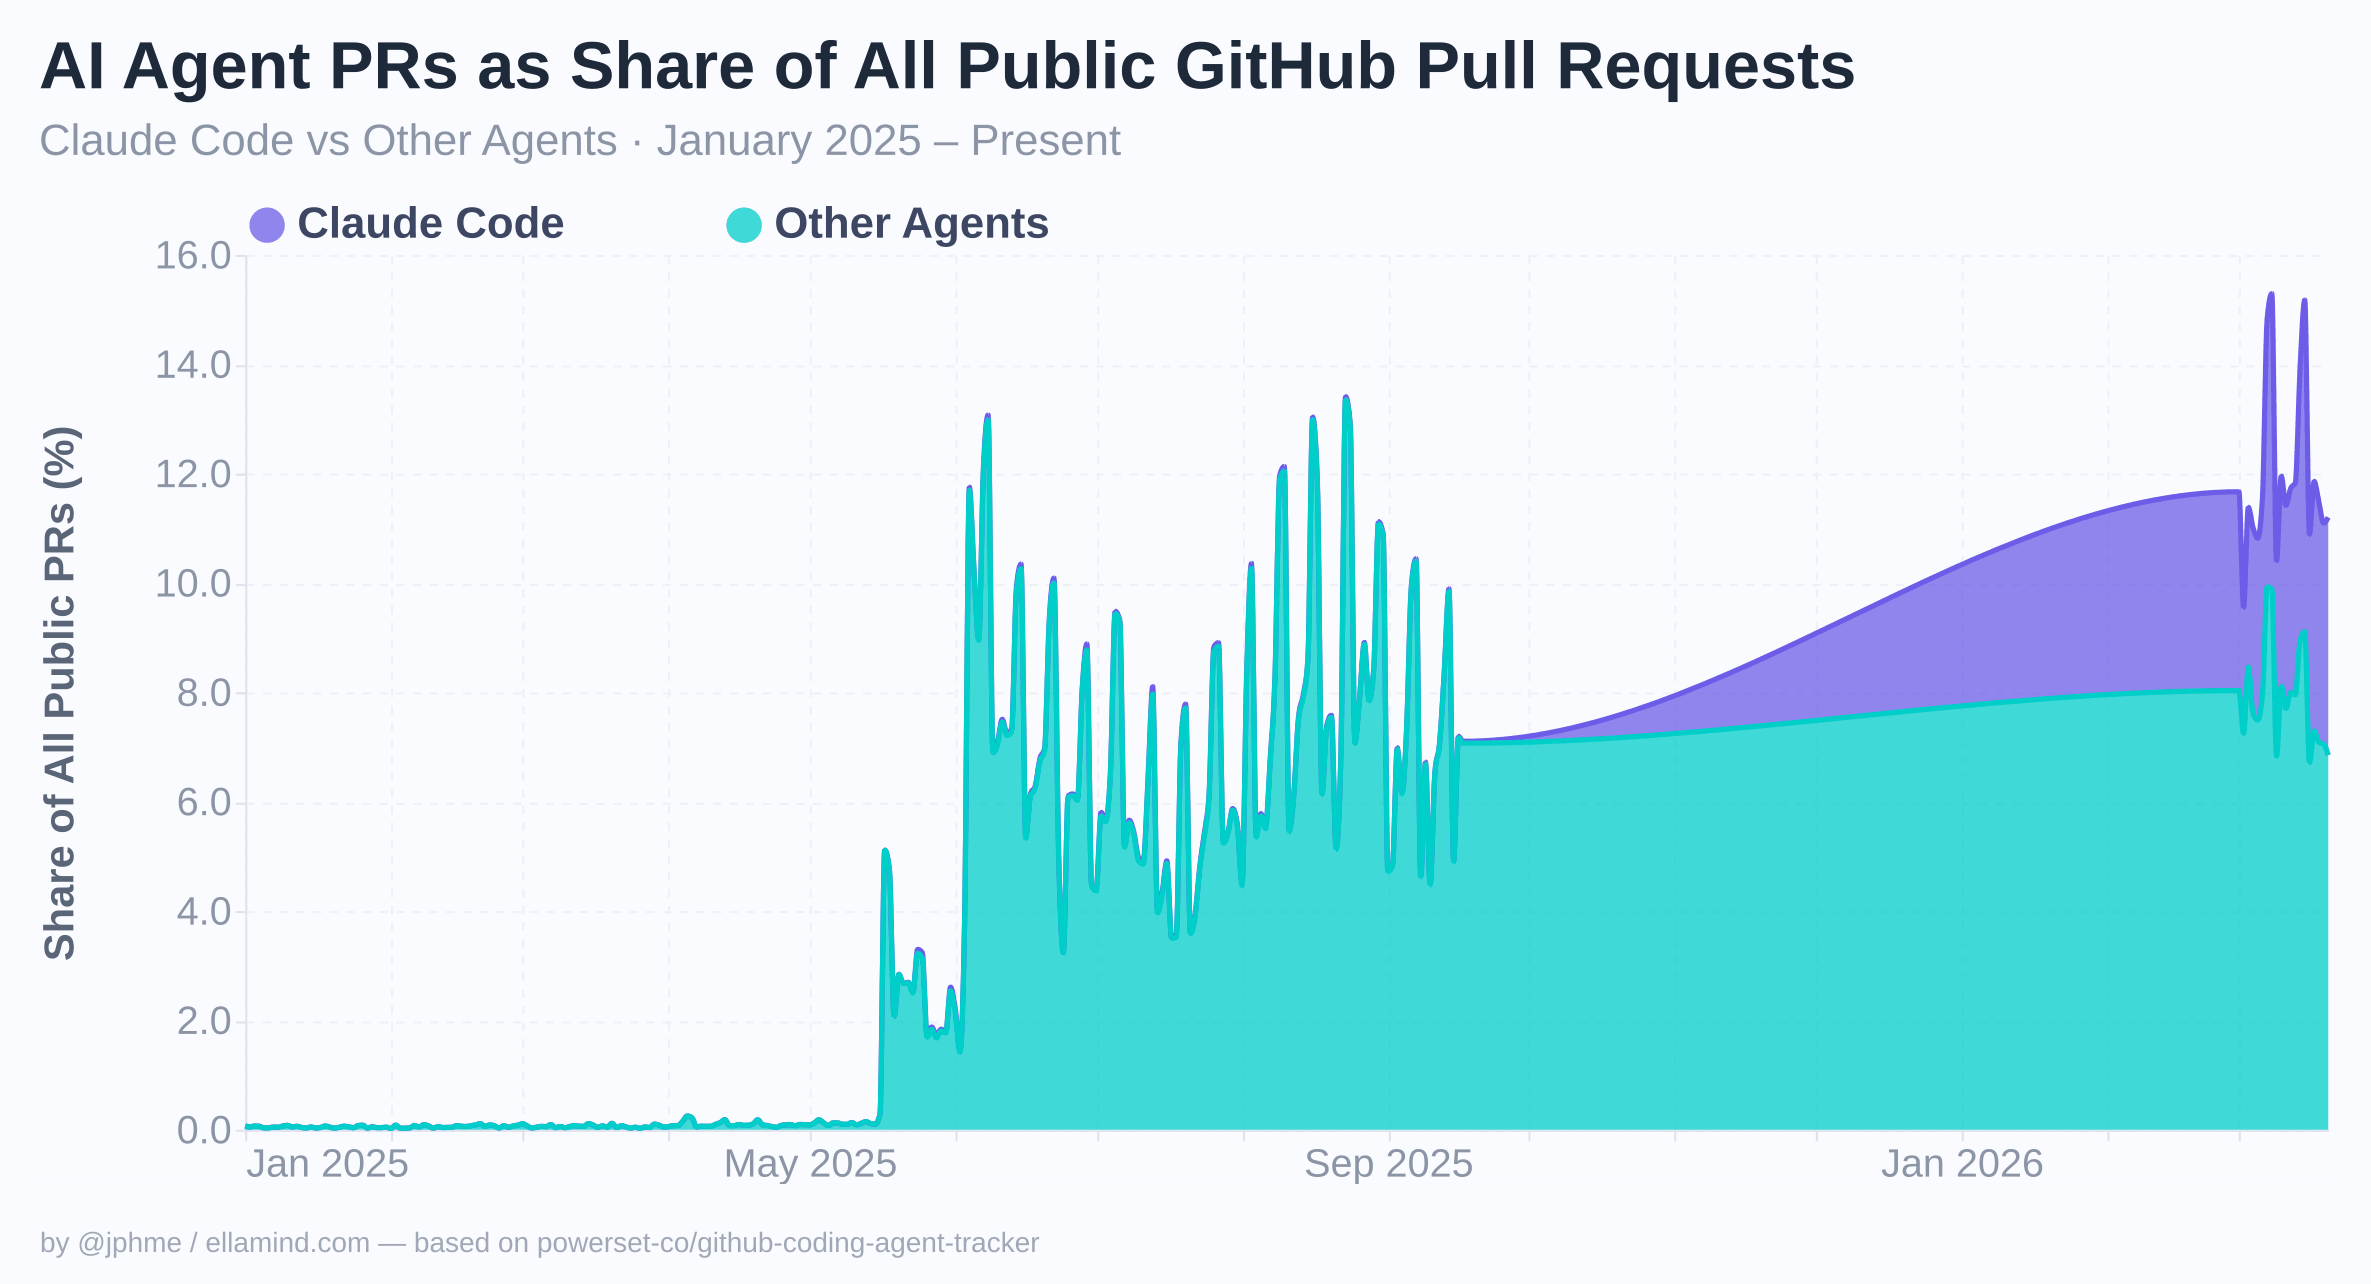
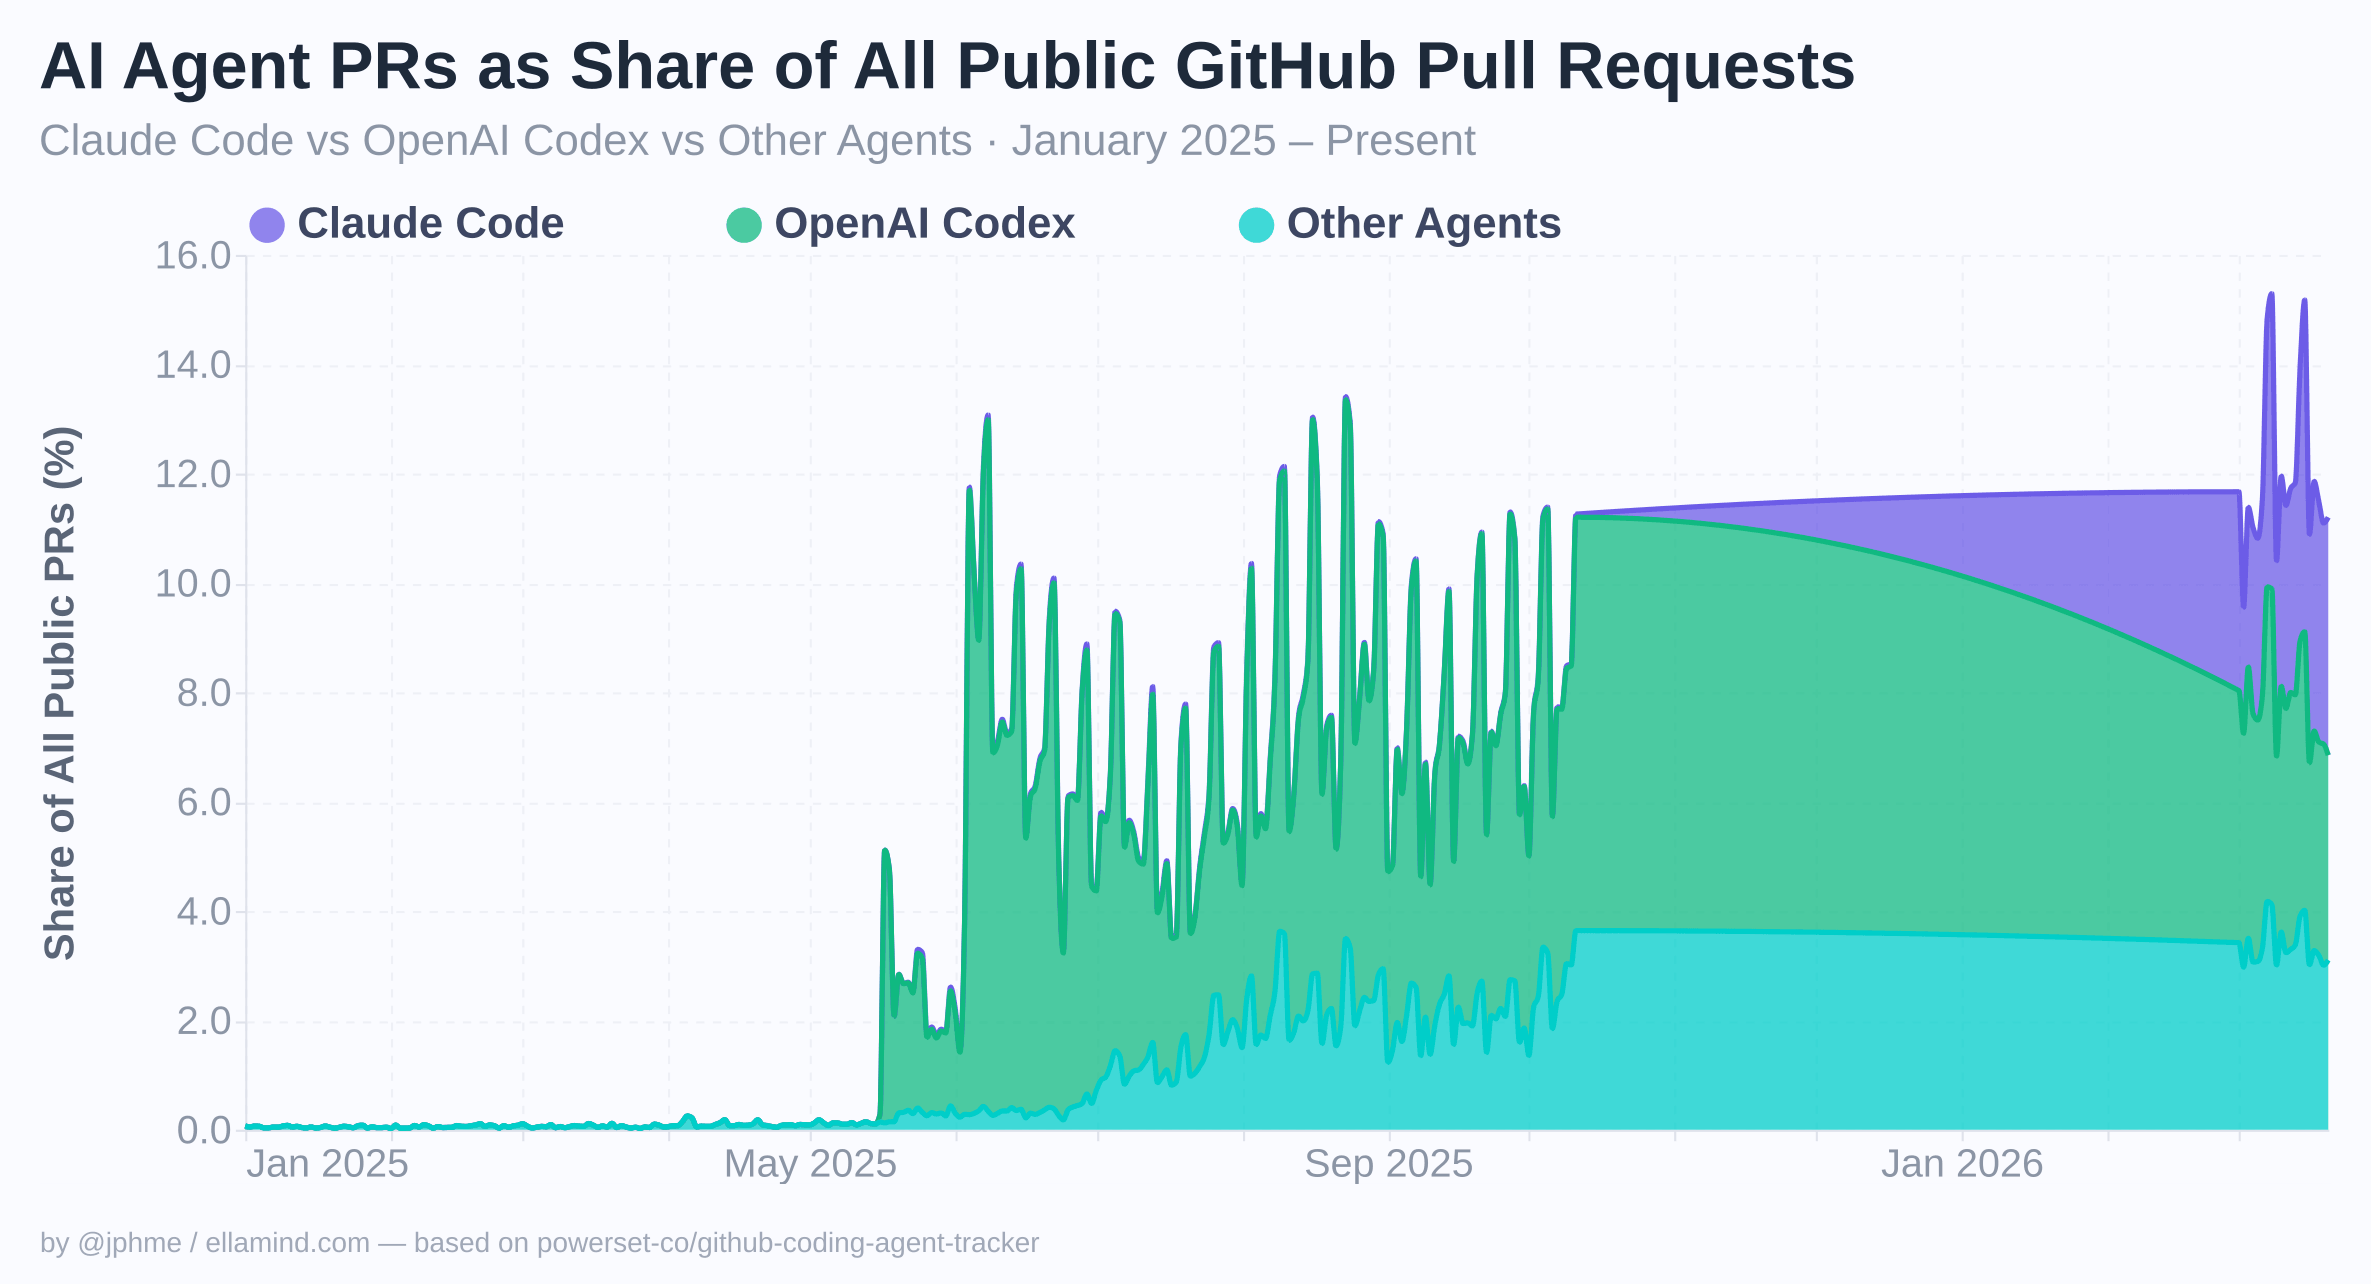
Add PR share chart with Claude/Codex/Other categories and GitHub Action
- Update pr-share-chart.ts to show 3 categories: Claude Code, OpenAI Codex, Other Agents
- Add .github/workflows/update-prs.yml for daily PR data collection
- Update CLAUDE.md with PR pipeline documentation
- Include remaining backfilled PR data (through Oct 11)

https://claude.ai/code/session_014wvLU8jndavNQ5BthFgYj1

diff --git a/src/pr-share-chart.ts b/src/pr-share-chart.ts
@@ -8,7 +8,8 @@ import * as vegaLite from "vega-lite";
 import sharp from "sharp";
 
 const CLAUDE_KEY = "claude";
-const OTHER_AGENT_KEYS = ["codex", "copilot", "cursor", "devin", "jules", "amazonq", "opencode"];
+const CODEX_KEY = "codex";
+const OTHER_AGENT_KEYS = ["copilot", "cursor", "devin", "jules", "amazonq", "opencode"];
 
 interface StackedPoint {
   date: string;
@@ -35,9 +36,11 @@ function loadData(): StackedPoint[] {
     if (!total || total === 0) continue;
 
     const claudeCount = rows.get(CLAUDE_KEY) ?? 0;
+    const codexCount = rows.get(CODEX_KEY) ?? 0;
     const otherSum = OTHER_AGENT_KEYS.reduce((sum, k) => sum + (rows.get(k) ?? 0), 0);
 
     points.push({ date, category: "Claude Code", percentage: (claudeCount / total) * 100 });
+    points.push({ date, category: "OpenAI Codex", percentage: (codexCount / total) * 100 });
     points.push({
       date,
       category: "Other Agents",
@@ -51,8 +54,8 @@ function loadData(): StackedPoint[] {
 
 function buildSpec(data: StackedPoint[]): vegaLite.TopLevelSpec {
   const colorScale = {
-    domain: ["Claude Code", "Other Agents"],
-    range: ["#6C5CE7", "#00CEC9"],
+    domain: ["Claude Code", "OpenAI Codex", "Other Agents"],
+    range: ["#6C5CE7", "#10B981", "#00CEC9"],
   };
 
   return {
@@ -63,7 +66,7 @@ function buildSpec(data: StackedPoint[]): vegaLite.TopLevelSpec {
     background: "#FAFBFF",
     title: {
       text: "AI Agent PRs as Share of All Public GitHub Pull Requests",
-      subtitle: "Claude Code vs Other Agents  ·  January 2025 – Present",
+      subtitle: "Claude Code vs OpenAI Codex vs Other Agents  ·  January 2025 – Present",
       font: "Helvetica Neue, Arial, sans-serif",
       fontSize: 32,
       fontWeight: 700,

diff --git a/CLAUDE.md b/CLAUDE.md
@@ -21,6 +21,15 @@ bun run src/chart.ts
 # Generate commit-share-chart.png (Claude vs Others stacked area chart)
 bun run src/commit-share-chart.ts
 
+# Fetch PR data for a single day
+GITHUB_TOKEN=ghp_... bun run src/fetch-prs.ts 2026-03-20
+
+# Fetch PR data for a date range (inclusive)
+GITHUB_TOKEN=ghp_... bun run src/fetch-prs.ts 2026-03-01 2026-03-20
+
+# Generate pr-share-chart.png (Claude vs Codex vs Others stacked area chart)
+bun run src/pr-share-chart.ts
+
 # Format code
 bun run format
 
@@ -32,7 +41,7 @@ Uses **Bun** as runtime and package manager. Install deps with `bun install`. No
 
 ## Architecture
 
-Four source files form the pipeline:
+Two parallel pipelines track commits and PRs:
 
 - **`src/agents.ts`** — Agent definitions. Each agent has a `name`, `key` (CSV column), and `query` (GitHub search fragment). Two detection patterns: `author:bot[bot]` for GitHub App agents, or email/domain text matching for `Co-Authored-By` trailers.
 
@@ -41,6 +50,12 @@ Four source files form the pipeline:
 - **`src/chart.ts`** — Reads all `data/*.csv` files, computes agent percentages, renders a Vega-Lite area chart to `chart.png` via sharp, and injects a 10-day rolling average markdown table into `README.md` between `<!-- recent-table-start -->` / `<!-- recent-table-end -->` sentinel comments.
 
 - **`src/commit-share-chart.ts`** — Generates `commit-share-chart.png`, a stacked area chart showing Claude Code vs Other Agents as a percentage of all public GitHub commits. Uses Vega-Lite with sharp for rendering and post-processing (trim + controlled margins).
+
+- **`src/pr-agents.ts`** — PR agent definitions. Each agent has a `name`, `key`, and `query` (GitHub PR search fragment). Detection uses `author:bot[bot]` for GitHub App agents or `head:prefix/` for branch-name matching.
+
+- **`src/fetch-prs.ts`** — PR data collection. For each date, queries total public PRs and per-agent PR counts. Writes `pr-data/YYYY-MM-DD.csv`.
+
+- **`src/pr-share-chart.ts`** — Generates `pr-share-chart.png`, a stacked area chart showing Claude Code vs OpenAI Codex vs Other Agents as a percentage of all public GitHub PRs.
 
 ## Data Format
 
